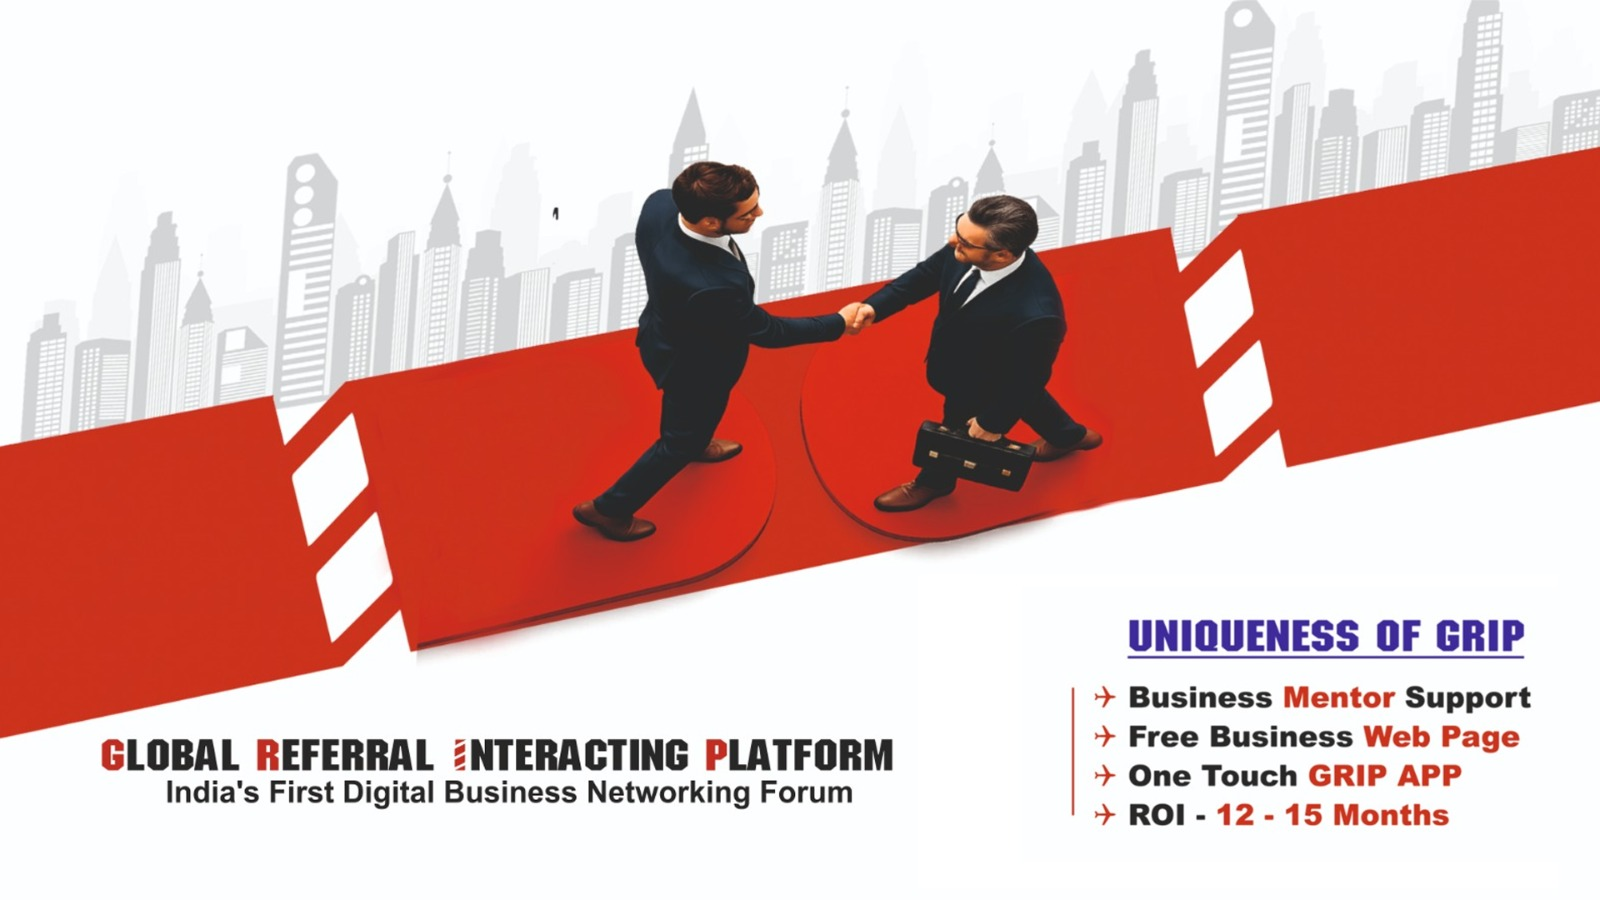
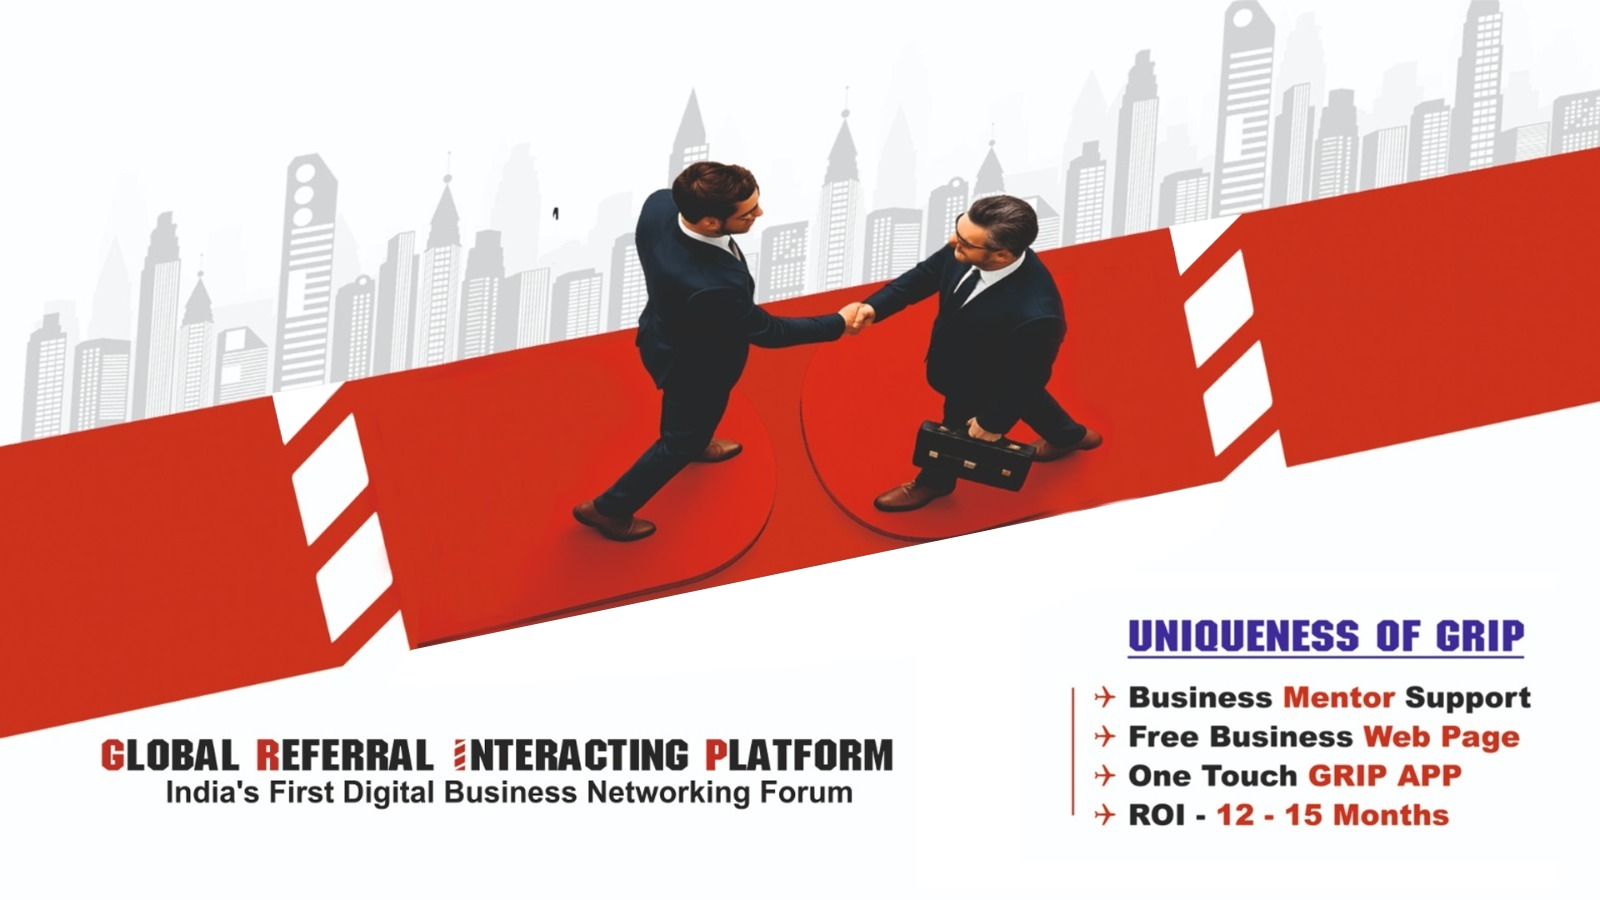
new changes

diff --git a/components/ChapterDetail.tsx b/components/ChapterDetail.tsx
@@ -304,7 +304,7 @@ export default function ChapterDetail({
       {/* Hero */}
       <section
         className="chapter-hero"
-        style={{ backgroundImage: `url(${chapterInfo?.bgImageUrl || "/assets/images/slider/gripbanner1.jpeg"})` }}
+        style={{ backgroundImage: `url(${chapterInfo?.bgImageUrl || "/assets/images/slider/banner1.jpeg"})` }}
       >
         <div className="chapter-hero-overlay" />
         <div className="container chapter-hero-content">

diff --git a/app/[zone]/ZoneDetail.tsx b/app/[zone]/ZoneDetail.tsx
@@ -218,7 +218,7 @@ export default function ZoneDetail({ zoneSlug }: { zoneSlug: string }) {
         .zone-hero {
           position: relative;
           min-height: 280px;
-          background-image: url("/assets/images/slider/gripbanner1.jpeg");
+          background-image: url("/assets/images/slider/banner1.jpeg");
           background-size: cover;
           background-position: center;
           display: flex;

diff --git a/app/page.tsx b/app/page.tsx
@@ -25,7 +25,7 @@ export default async function Home() {
         className="si__slider__area bg"
         role="img"
         aria-label="Business team in a meeting – GRIP, India's 1st digital business networking platform"
-        style={{ background: "url(/assets/images/slider/gripbanner1.jpeg)" }}
+        style={{ background: "url(/assets/images/slider/banner1.jpeg)" }}
       />
 
       {/* Why Choose Us */}

diff --git a/components/ChapterGalleryPage.tsx b/components/ChapterGalleryPage.tsx
@@ -215,7 +215,7 @@ export default function ChapterGalleryPage({
       <section
         className="gallery-hero"
         style={{
-          backgroundImage: `url(${heroBgUrl || "/assets/images/slider/gripbanner1.jpeg"})`,
+          backgroundImage: `url(${heroBgUrl || "/assets/images/slider/banner1.jpeg"})`,
         }}
       >
         <div className="gallery-hero-overlay" />
